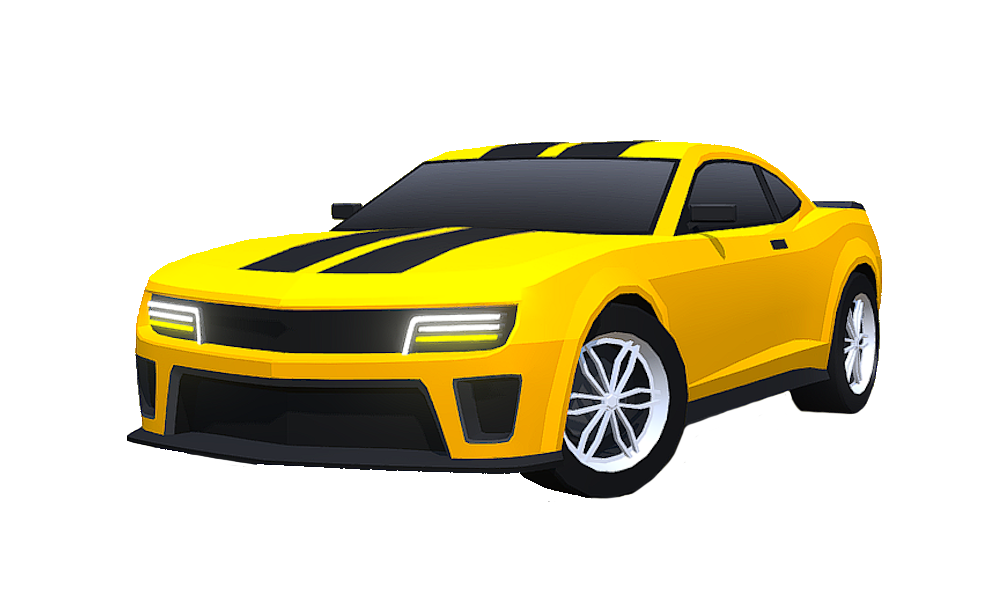
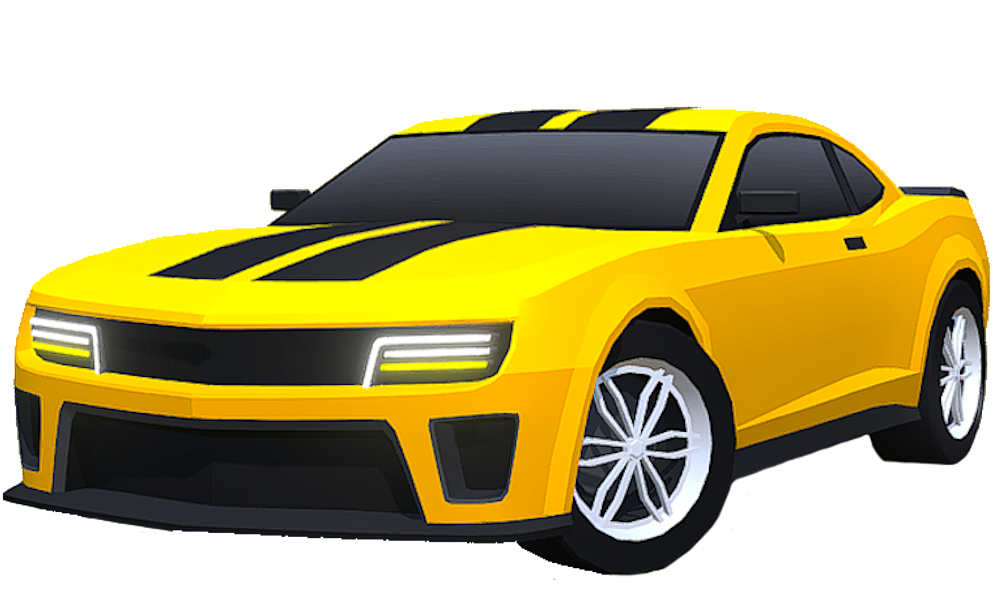
Few changes
- Updated the dd car image
- Added an intersection observer from scroll animations ( use .hidden for bot visible state and .show for visible state )

diff --git a/index.html b/index.html
@@ -35,7 +35,7 @@
         <section class="wwdSection">
             <h1>WHAT WE DO</h1>
             <p>What do we actually do? Good question. In addition to crafting captivating games, we also specialize in web design and development. Our expertise spans both into immersive gaming experiences and user-friendly websites, ensuring top-tier solutions across the digital spectrum.</p>
-            <img src="images/DrippyDriftCar.png" alt="Car">
+            <img class="hidden" src="images/DrippyDriftCar.png" alt="Car">
         </section>
         <section class="teamSection">
             <h1 class="staffTitle">Meet the Team</h1>
@@ -85,7 +85,7 @@
 
     <footer>
         <div class="upperFooterWrapper">
-            <div class="upperFooter">
+            <div class="upperFooter hidden">
                 <div>
                     <h3>Interested in working together?</h3>
                     <p>Let's schedule a meeting to discuss this further. We'll cover the coffee, you bring your smile!</p>

diff --git a/styles/style.css b/styles/style.css
@@ -174,11 +174,20 @@ main{
 
 .wwdSection img{
     position: absolute;
-    width: 700px;
-    right: 0;
-    bottom: -135px;
-    transform: rotate(5deg);
+    width: 550px;
+    right: 35px;
+    bottom: -75px;
+    rotate: 5deg;
     filter: drop-shadow(0px 0px 20px rgba(0, 0, 0, 0.25));
+    transition: all 0.5s, rotate 0s;
+}
+
+.wwdSection img.hidden{
+    transform: translateX(100%);
+}
+
+.wwdSection img.show{
+    transform: translateX(0);
 }
 
 /* -- TEAM SECTION -- */
@@ -303,6 +312,7 @@ footer{
 }
 
 .upperFooter{
+    transition: transform 1s ease-in-out;
     position: absolute;
     top: -35px;
     display: flex;
@@ -313,6 +323,14 @@ footer{
     border-radius: 40px;
     box-shadow: 0px 10px 50px 10px rgba(4, 0, 255, 0.3);
     background: linear-gradient(135deg, var(--accentLight), var(--accentDark));
+}
+
+.upperFooter.hidden{
+    transform: translateY(-25px);
+}
+
+.upperFooter.show{
+    transform: translateY(0);
 }
 
 .upperFooter div{

diff --git a/scripts/index.js b/scripts/index.js
@@ -1,0 +1,15 @@
+// ----- SCROLL ANIM OBSERVER
+
+const  observer = new IntersectionObserver((entries) => {
+    entries.forEach((entry) => {
+        console.log("Test bre");
+        if(entry.isIntersecting){
+            entry.target.classList.add('show');
+        }else{
+            entry.target.classList.remove('show');
+        }
+    });
+});
+
+const hiddenElements = document.querySelectorAll('.hidden');
+hiddenElements.forEach((element) => observer.observe(element));
